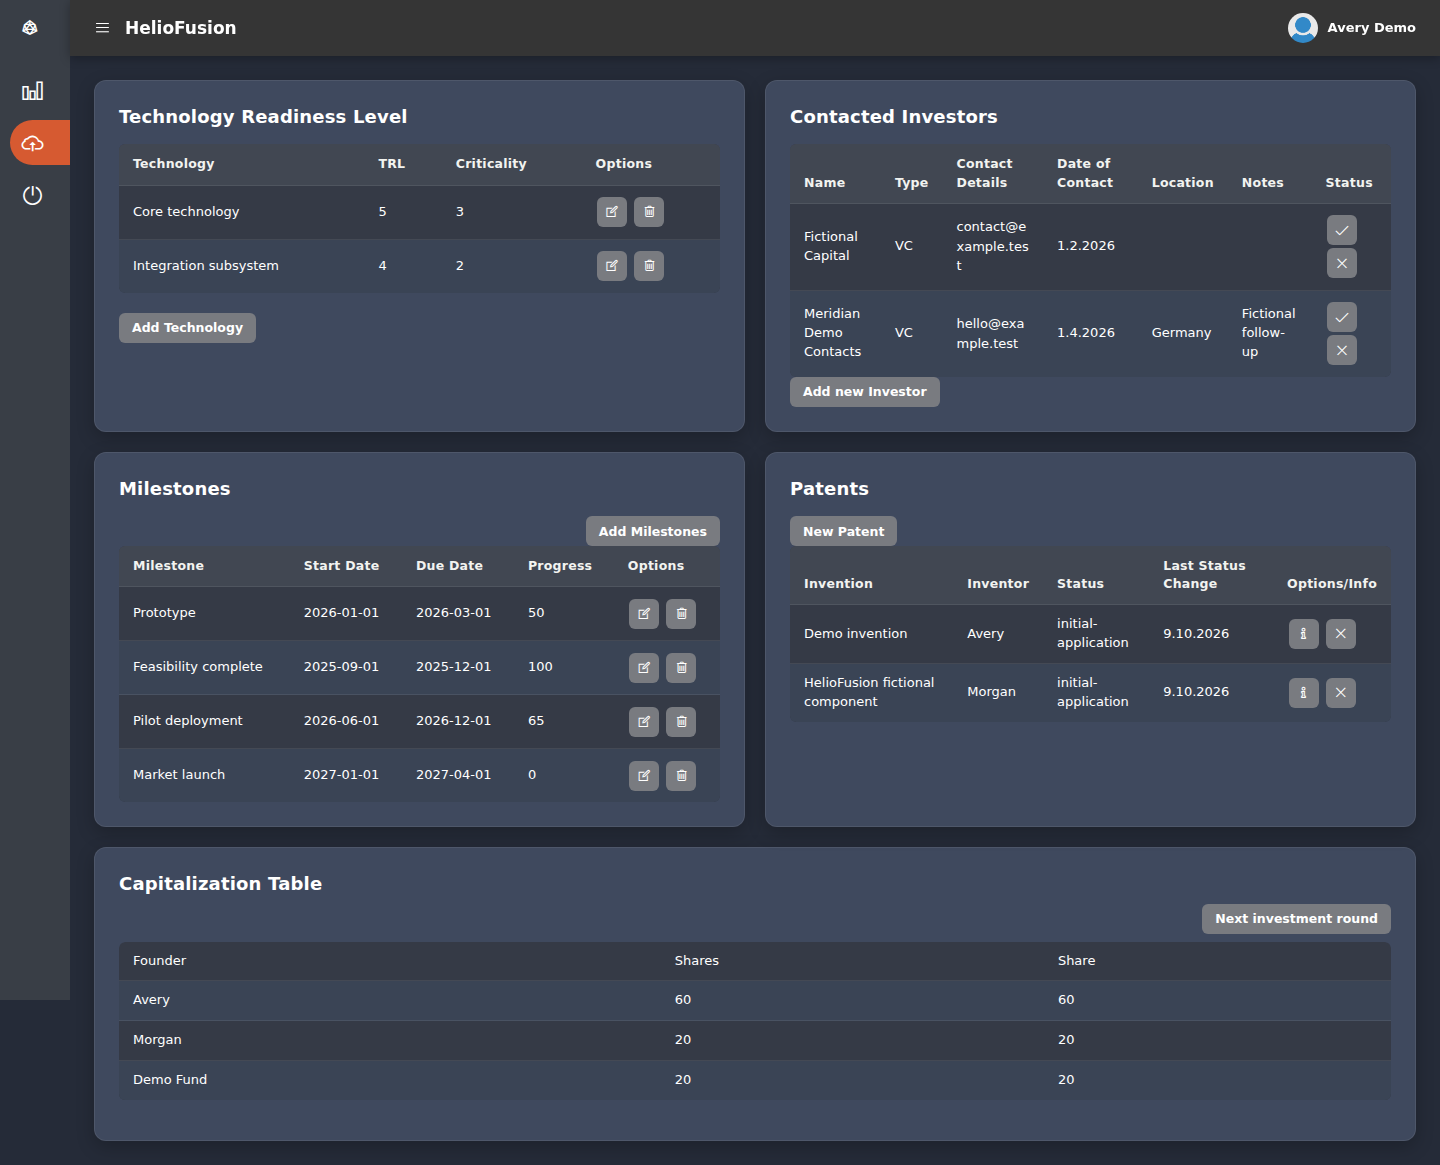
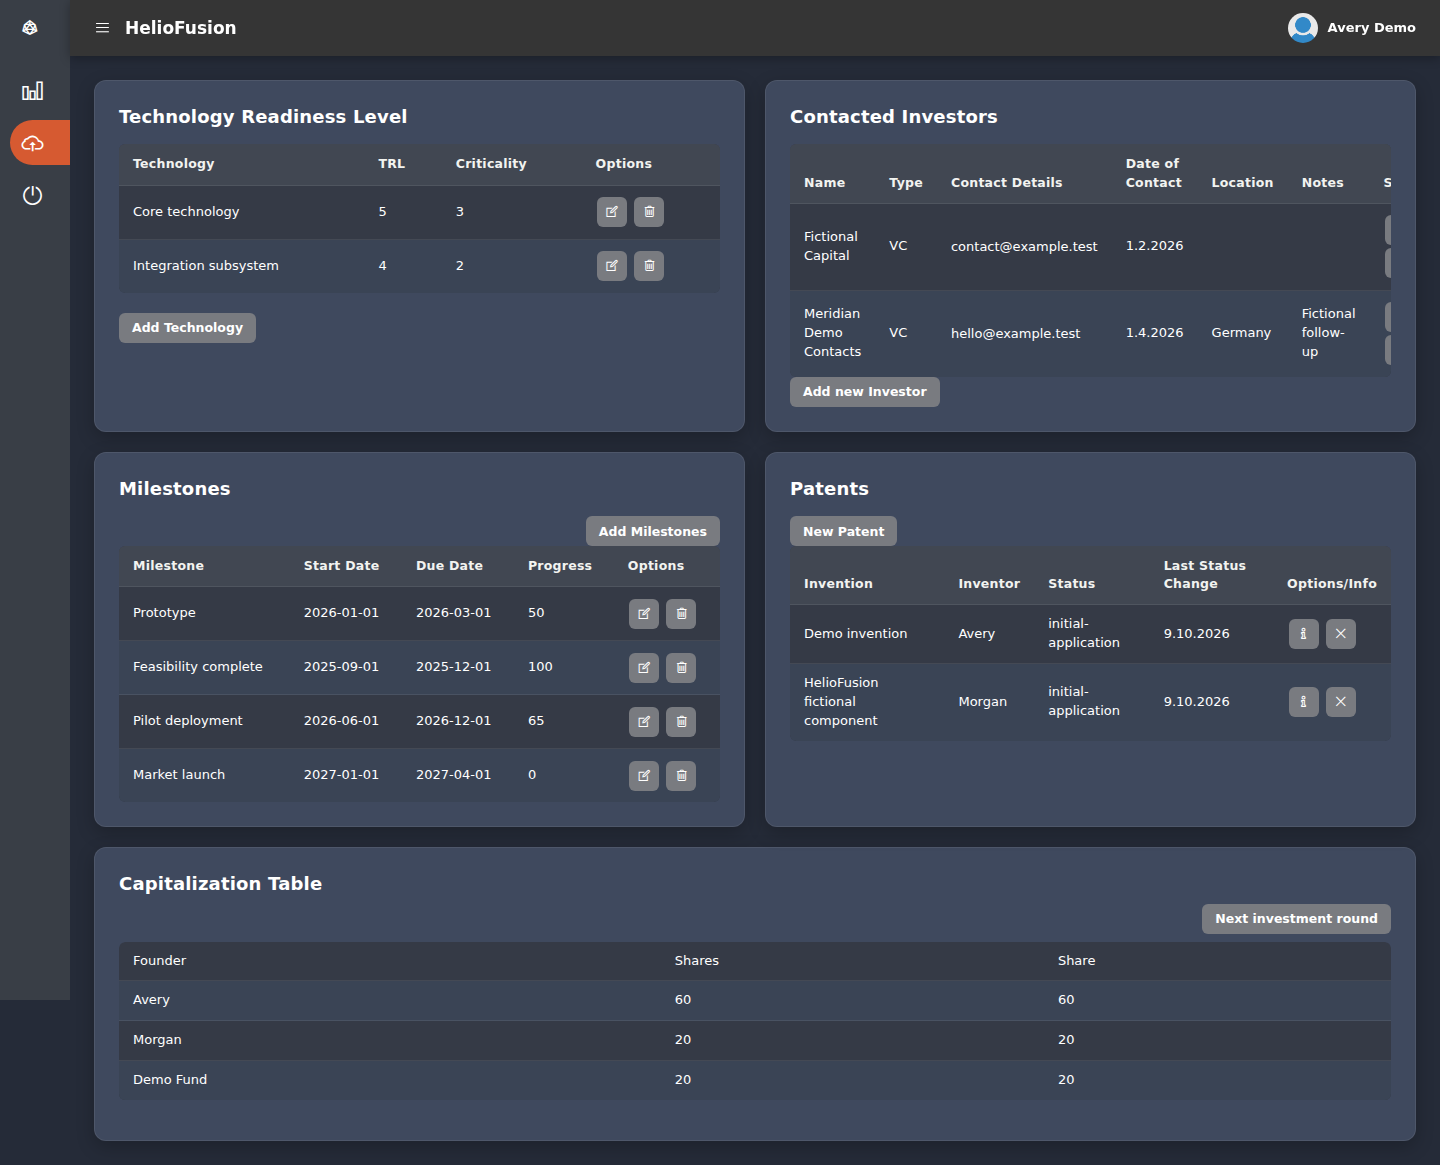
style(dashboard): stack cards and keep table words intact on tablet
Review follow-up: apply one-column card stacking and scrollable
min-width tables up to 1024px, break table cell text only when a word
cannot fit, and hide the stray <br> grid item between stacked cards.
Refresh tablet/mobile evidence.

diff --git a/dashboard/public/css/theme.css b/dashboard/public/css/theme.css
@@ -298,6 +298,13 @@ body.app #expertise-table-wrapper {
 body.app .card-startup-table {
   overflow: hidden;
 }
+/* dashboard.css breaks long cell text "anywhere", which also splits short
+   words and dates mid-word when columns get narrow. Break only words that
+   cannot fit on their own line. */
+body.app .submit-table-wrapper td,
+body.app .card-startup-table td {
+  overflow-wrap: break-word;
+}
 
 /* ---------------------------------------------------------- controls */
 body.app button,
@@ -651,6 +658,28 @@ body.app .empty-state {
     max-width: 100%;
     overflow-x: auto;
   }
+  /* Below desktop width two card columns are too narrow for the dense
+     tables: stack cards in one column, in document order. */
+  body.app .cards,
+  body.app .submit-cards {
+    grid-template-columns: minmax(0, 1fr);
+    grid-template-areas: none;
+  }
+  /* !important: the page CSS assigns areas by id selector. */
+  body.app .cards > *,
+  body.app .submit-cards > * {
+    grid-area: auto !important;
+  }
+  /* A stray <br> between cards would become an empty grid row. */
+  body.app .cards > br {
+    display: none;
+  }
+  /* Dense tables keep readable columns and scroll inside their card. */
+  body.app .submit-table-wrapper table,
+  body.app .card-startup-table table,
+  body.app .table-container table {
+    min-width: 56rem;
+  }
 }
 
 @media only screen and (max-width: 768px) {
@@ -680,31 +709,9 @@ body.app .empty-state {
   body.app .submit-card {
     padding: 1.6rem;
   }
-  /* One column in document order; avoids empty named rows adding gaps. */
-  body.app .cards,
-  body.app .submit-cards {
-    grid-template-columns: minmax(0, 1fr);
-    grid-template-areas: none;
-  }
-  /* !important: the page CSS assigns areas by id selector. */
-  body.app .cards > *,
-  body.app .submit-cards > * {
-    grid-area: auto !important;
-  }
   body.app th,
   body.app td {
     padding: 0.9rem 1rem;
-  }
-  /* Dense tables keep readable columns and scroll inside their card
-     instead of breaking words letter by letter. */
-  body.app .submit-table-wrapper table,
-  body.app .card-startup-table table,
-  body.app .table-container table {
-    min-width: 56rem;
-  }
-  body.app .submit-table-wrapper td,
-  body.app .card-startup-table td {
-    overflow-wrap: break-word;
   }
   body.app table {
     font-size: 1.25rem;

diff --git a/dashboard/qa/modernization/README.md b/dashboard/qa/modernization/README.md
@@ -27,7 +27,7 @@ Visual fixes, all roles:
 - Founders: expertise doughnut and table in a wrapping flex layout instead of floats.
 - Onboarding product step: cards overlapped because grid rows were sized in percentages; now auto rows.
 - Onboarding questionnaire: wide radio tables scroll per table on tablet/mobile instead of widening the page.
-- Mobile/tablet: cards stack in document order in one column; dense submit/detail tables keep a 56rem minimum width and scroll inside their card instead of breaking words letter by letter; onboarding header no longer runs under its sidebar.
+- Tablet and mobile (up to 1024px): cards stack in document order in one column; dense submit/detail tables keep a 56rem minimum width and scroll inside their card. At all widths, table cells only break words that cannot fit on a line (dashboard.css broke dates, names and emails mid-word); onboarding header no longer runs under its sidebar on mobile.
 - Login: centred card with labelled controls; production email/password form gets the same styling.
 - `prefers-reduced-motion` disables transitions and chart animation.
 
